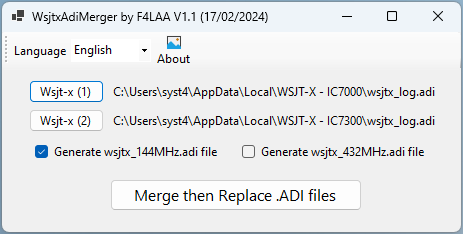
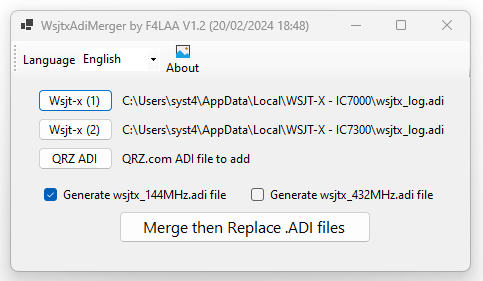
modified:   README.md 	modified:   images/WsjtxAdiMerger.png

diff --git a/README.md b/README.md
@@ -60,10 +60,11 @@ V1.1c (2024/02/19 20:00): <br/>
 <ul>
   <li>Add a more explicit final message that tells how many records where added in each files.</li>
   <li>Do not backup and rewrite files if no record were added.</li>
+</ul>
 <ul>
 V1.2 (2024/02/20 18:48): <br/>
 <ul>
-  <li>Add the ability to add a QRZ.com exported ADI file to WSJT-X ADI files.</li>
+  <li>New feature: You can now add a <b>QRZ.com exported ADI file</b> to your wsjtx_log.adi files.</li>
 <ul>
 <hr/>
 
